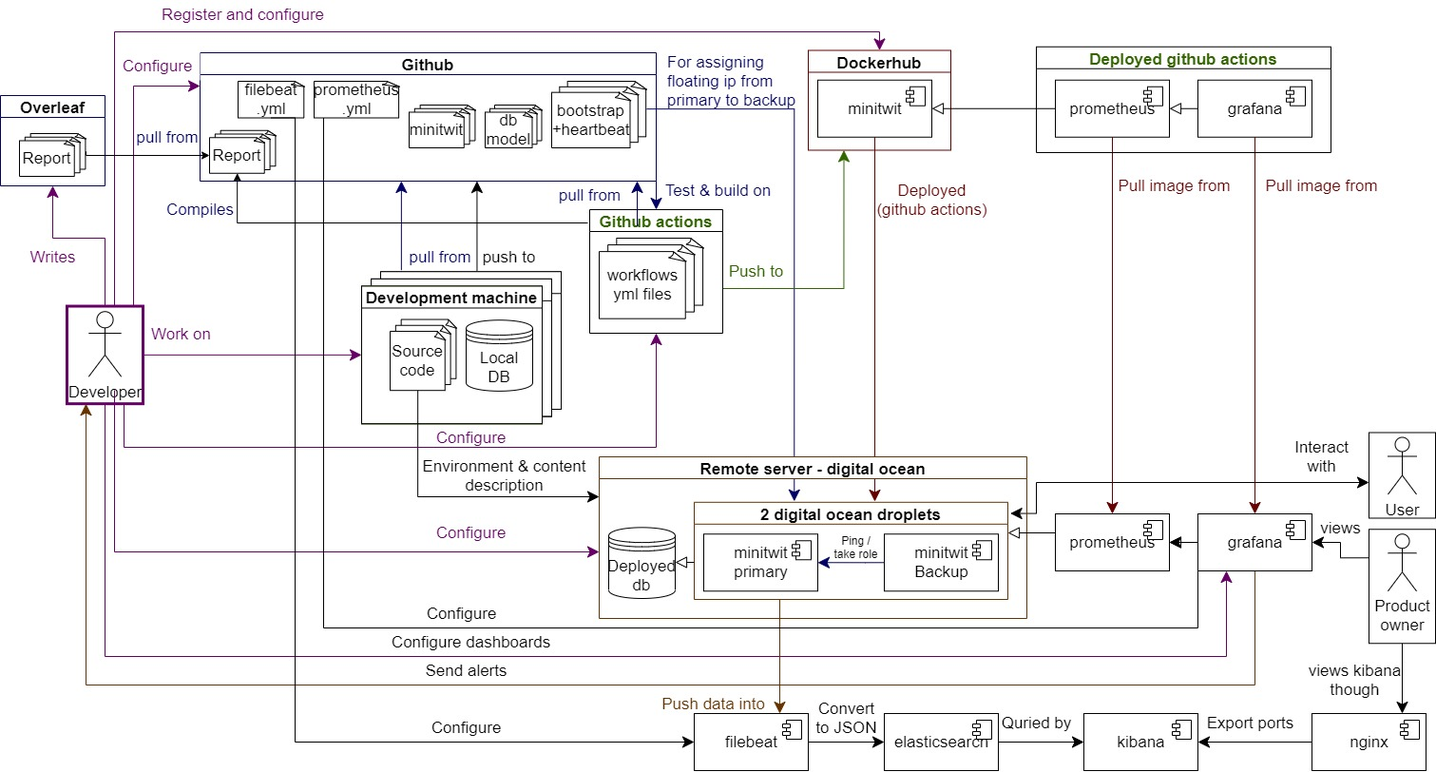
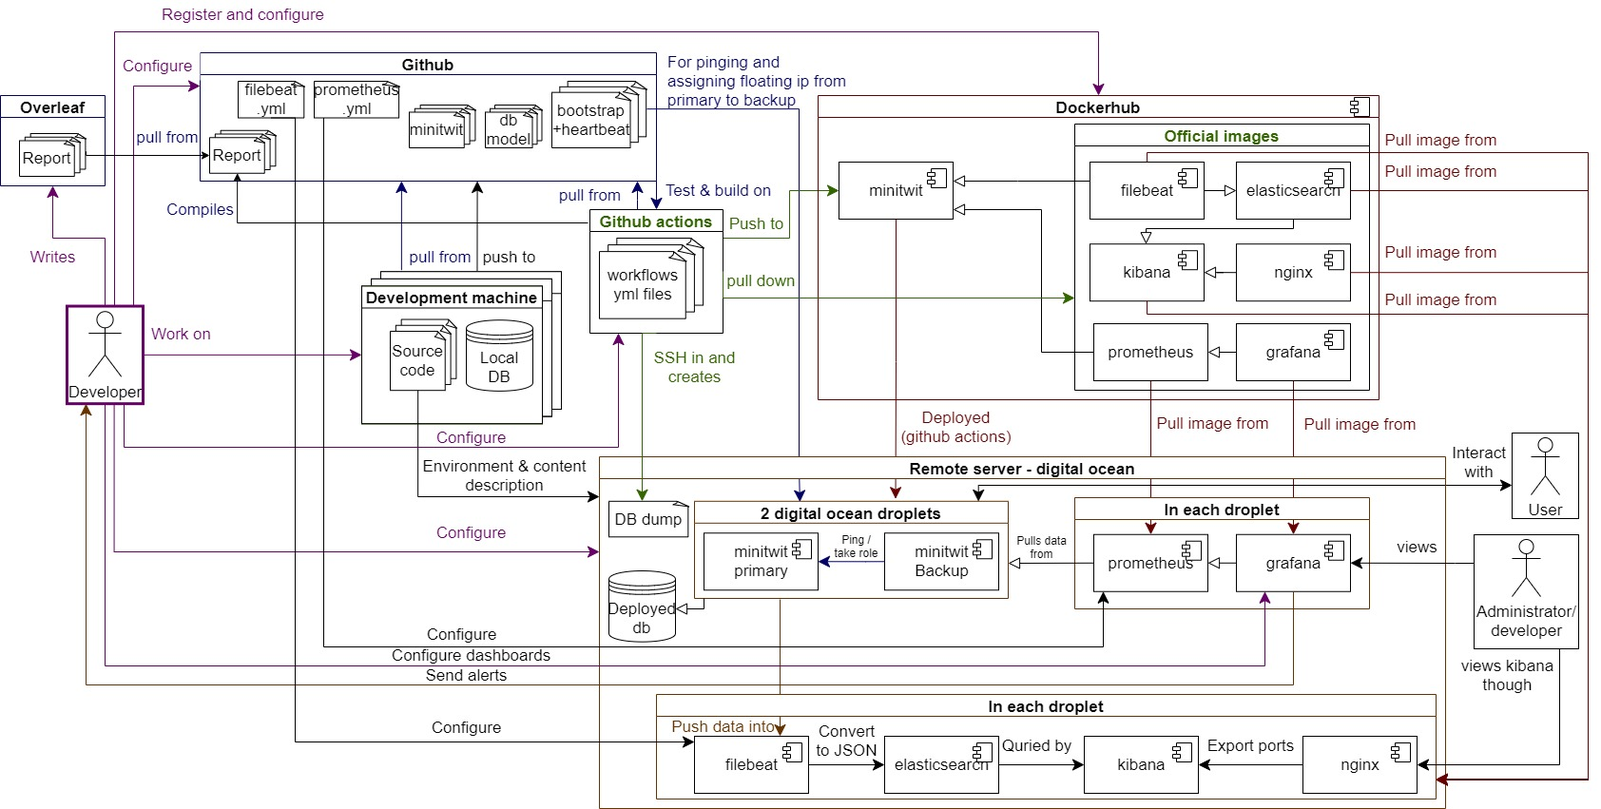
Update on Overleaf.

diff --git a/report/1-systems-perspective.tex b/report/1-systems-perspective.tex
@@ -13,91 +13,98 @@
 
 
 \begin{itemize}
-    \item \textbf{Main}: is the entrance point onto the program, and contains arguments to modify which database is used. Main also starts the maintenance and set max number of threads for the program.\\
+    \item \textbf{Main}: is the entrance point onto the program, and contains arguments to modify which database is used. Main also starts the maintenance and defines the max number of threads for the program.\\
     The class diagram can be seen in \hyperref[fig:classDiagramMain]{figure \ref{fig:classDiagramMain}}.
-    \item \textbf{Utilities}: contains helper methods like hashing, formatting dates and JSON and Request, response and session wrapper objects. \\
+    \begin{figure}[H]
+        \centering
+        \includegraphics[width=1.0\textwidth]{images/class_diagram_main.jpg}
+        \caption{Class diagram main, logical view}
+        \label{fig:classDiagramMain}
+    \end{figure}
+    
+    \item \textbf{Utilities}: contains helper methods like hashing, formatting dates and JSON, as well as housing Request, Response and Session wrapper objects. \\
     The class diagram can be seen in \hyperref[fig:classDiagramUtilities]{figure \ref{fig:classDiagramUtilities}}.
+    \begin{figure}[H]
+        \centering
+        \includegraphics[width=1.0\textwidth]{images/class_diagram_utilities.jpg}
+        \caption{Class diagram utilities, logical view}
+        \label{fig:classDiagramUtilities}
+    \end{figure}
+    
     \item \textbf{Error handling}: Contains objects to hold result of computations which could result in exceptions, allowing for better error handling and reducing amounts of try-catch statements. \\
     The class diagram can be seen in \hyperref[fig:classDiagramErrorhandling]{figure \ref{fig:classDiagramErrorhandling}}.
+    \begin{figure}[H]
+        \centering
+        \includegraphics[width=1.0\textwidth]{images/class_diagram_errorhandling.jpg}
+        \caption{Class diagram errorhandling, logical view}
+        \label{fig:classDiagramErrorhandling}
+    \end{figure}
+    
     \item \textbf{Controllers}: Handles the different endpoints which our website should provide, by mapping paths for post and get request to which code should handle the requests and responses.\\
     The class diagram can be seen in \hyperref[fig:classDiagramControllers]{figure \ref{fig:classDiagramControllers}}.
+    \begin{figure}[H]
+        \centering
+        \includegraphics[width=1.0\textwidth]{images/class_diagram_controllers.jpg}
+        \caption{Class diagram controllers, logical view}
+        \label{fig:classDiagramControllers}
+    \end{figure}
+    
     \item \textbf{View}: Contains code for changing what is presented in the website, by redirecting to new paths or by setting new HTML file/template to be used along with variables for it to know.\\
     The class diagram can be seen in \hyperref[fig:classDiagramView]{figure \ref{fig:classDiagramView}}.
+    \begin{figure}[H]
+        \centering
+        \includegraphics[width=1.0\textwidth]{images/class_diagram_view.jpg}
+        \caption{Class diagram view, logical view}
+        \label{fig:classDiagramView}
+    \end{figure}
+    
     \item \textbf{Services}: Includes the code for maintenance, which uses Prometheus library to store the values Prometheus should collect, and the log service, which prints in a manner easy to filer for in Kibana. Services also includes functions executing the requests and responses.\\
     The class diagram can be seen in \hyperref[fig:classDiagramServices]{figure \ref{fig:classDiagramServices}}.
-    \item \textbf{Repository}: Includes code for starting the database and for executing queries needed by the services. The ORM tool used is NORM.  \todo{argue for why}\\
-    The class diagram can be seen in \hyperref[fig:classDiagramRepository]{figure \ref{fig:classDiagramRepository}}.
+    \item \textbf{Repository}: Includes code for starting the database and for executing queries needed by the services. 
+    
+    The ORM tool used is \textit{NORM}, which is a lightweight ORM that does not require the complex markdown files that \textit{Hibernate}, \textit{JPA} etc. introduce. It is suitable for smaller projects with simple models and therefore for the Minitwit application. Another ORM tool, \textit{Hibernate}, was tried in order to see if it would be a better fit than NORM since it is more complex but it turned out that the tool did not deliver on its promises, meaning that it only introduced more unnecessary complexity without adding any benefits. It furthermore complicated database joins that are needed in the Minitwit application. It was therefore decided to stick with \textit{NORM}. The class diagram can be seen in \hyperref[fig:classDiagramRepository]{figure \ref{fig:classDiagramRepository}}.
+    \begin{figure}[H]
+        \centering
+        \includegraphics[width=1.0\textwidth]{images/class_diagram_services.jpg}
+        \caption{Class diagram services, logical view}
+        \label{fig:classDiagramServices}
+    \end{figure}
+    
     \item \textbf{Model}: Model contains the database relations with one object per entity. The objects in the folder matches the entities in the database as they are the template NORM uses to create it.\\
     The class diagram can be seen in \hyperref[fig:classDiagramModel]{figure \ref{fig:classDiagramModel}}.
+    \begin{figure}[H]
+        \centering
+        \includegraphics[width=1.0\textwidth]{images/class_diagram_repository.jpg}
+        \caption{Class diagram repository, logical view}
+        \label{fig:classDiagramRepository}
+    \end{figure}
+
     \item \textbf{Benchmark}: This is not in deployment and contains code to be run locally only. The packet component relates to measuring speed of different operations in the repository and was used to argue for speedups related to any extension to a database of same size as the one in deployment, as when indexes was added.\\
     The class diagram can be seen in \hyperref[fig:classDiagramModel]{figure \ref{fig:classDiagramModel}}.
+    \begin{figure}[H]
+        \centering
+        \includegraphics[width=1.0\textwidth]{images/class_diagram_model.jpg}
+        \caption{Class diagram model, logical view}
+        \label{fig:classDiagramModel}
+    \end{figure}
 \end{itemize}
 
 
-\begin{figure}[H]
-    \centering
-    \includegraphics[width=1.0\textwidth]{images/class_diagram_main.jpg}
-    \caption{Class diagram main, logical view}
-    \label{fig:classDiagramMain}
-\end{figure}
-
-\begin{figure}[H]
-    \centering
-    \includegraphics[width=1.0\textwidth]{images/class_diagram_utilities.jpg}
-    \caption{Class diagram utilities, logical view}
-    \label{fig:classDiagramUtilities}
-\end{figure}
-\begin{figure}[H]
-    \centering
-    \includegraphics[width=1.0\textwidth]{images/class_diagram_errorhandling.jpg}
-    \caption{Class diagram errorhandling, logical view}
-    \label{fig:classDiagramErrorhandling}
-\end{figure}
-\begin{figure}[H]
-    \centering
-    \includegraphics[width=1.0\textwidth]{images/class_diagram_controllers.jpg}
-    \caption{Class diagram controllers, logical view}
-    \label{fig:classDiagramControllers}
-\end{figure}
-
-\begin{figure}[H]
-    \centering
-    \includegraphics[width=1.0\textwidth]{images/class_diagram_view.jpg}
-    \caption{Class diagram view, logical view}
-    \label{fig:classDiagramView}
-\end{figure}
-
-\begin{figure}[H]
-    \centering
-    \includegraphics[width=1.0\textwidth]{images/class_diagram_services.jpg}
-    \caption{Class diagram services, logical view}
-    \label{fig:classDiagramServices}
-\end{figure}
-
-\begin{figure}[H]
-    \centering
-    \includegraphics[width=1.0\textwidth]{images/class_diagram_repository.jpg}
-    \caption{Class diagram repository, logical view}
-    \label{fig:classDiagramRepository}
-\end{figure}
-\begin{figure}[H]
-    \centering
-    \includegraphics[width=1.0\textwidth]{images/class_diagram_model.jpg}
-    \caption{Class diagram model, logical view}
-    \label{fig:classDiagramModel}
-\end{figure}
-
 \subsection{Architecture} %Jonas
-\hyperref[fig:componentDiagram]{Figure \ref{fig:componentDiagram}} shows the architecture of the entire ITU-minitwit system. Code is stored in github, which developers pull and push to during development. As mentioned main contains code for which database to use, and when running just the code locally it should use a local database called minitwit running on port 3306 localhost with password and username "root". When running locally with docker compose the mysql services should be stopped so a container for the database can be created. 
+\hyperref[fig:componentDiagram]{Figure \ref{fig:componentDiagram}} shows the architecture of the entire ITU-minitwit system.\\
+Code is stored in Github, which developers pull and push to during development. As mentioned main contains code for which database to use, and when running just the code locally it should use a local database called minitwit running on port 3306 localhost with password and username "root". When running locally with docker compose the MySQL services should be stopped so a container for the database can be created.\\
+Github actions test the files pushes using sonar cloud. Github actions also deploy to a docker image and pull down official Prometheus, Grafana, Filebeat, ElasticSearch, Kibana and Nginx images.\\
+The images are deployed on a digital ocean server containing one database and 2 digital ocean droplets. Each droplet contain a minitwit application and an official image. One image's floating point IP is in production and the other use heartbeat test whether primary is still up or whether it should become the new primary.
+\todo{Heartbeat}\\
+The Prometheus and Grafana images are for viewing maintenance and other four are for logging purposes.
 
 
-\todo{Describe report pulling and creation}
 
 
 \begin{figure}[H]
     \centering
     \includegraphics[width=1.0\textwidth]{images/Diagrams-Process_view_communication_diagram.jpg}
-    \caption{communication diagram, process view}
+    \caption{Communication diagram, process view}
     \label{fig:componentDiagram}
 \end{figure}
 
@@ -118,10 +125,19 @@
     \item \textbf{prometheus}: Prometheus JVM Client for introducing instrumenting such as gauges, counters and other metrics.
     \item \textbf{org.json}: Toolkit for JSON.
 \end{itemize}
+\subsubsection{Plugins}
+\begin{itemize}
+    \item \textbf{Maven}: Build automation tool used to manage our Java project and its dependencies.
+    \item \textbf{PMD}: code analyzer, used to find common programming flaws like unused variables, unnecessary object creation etc. 
+    \item \textbf{Forbidden API Checker}: Static code analysis that parses java byte code to find invocations of dangerous and deprecated method/class/fields signatures. 
+    \item \textbf{SonarCloud}: Bug, Vulnerability and Code Smell detection with issue contextualization and remediation guidance. Used in our CI for Continuous code inspection.
+\end{itemize}
+\footnote{\url{https://github.com/DevOps2021-gb/devops2021/wiki/Static-Analysis-Tools}}
+
 \todo{Skal plugins nævnes?(maven, PMD, forbiddenAPIs) \textcolor{yellow}{Maven kunne måske være relevant i hvert fald}}
 
 
-We used \url{www.licensediscovery.io} to analyze our Maven dependency licenses. As seen in figure \ref{fig:licenceDep} the strictest license that the majority of dependencies is ruled by is the Apache Software Licence Version 2. This is the license that we therefore went with.\footnote{\url{https://github.com/DevOps2021-gb/devops2021/blob/main/LICENSE.md}} \todo{Er det begrundelse nok?}
+We used \url{www.licensediscovery.io} to analyze our Maven dependency licenses. As seen in figure \ref{fig:licenceDep} the strictest license that the majority of dependencies is ruled by is the Apache Software License Version 2. This is the license that we therefore went with.\footnote{\url{https://github.com/DevOps2021-gb/devops2021/blob/main/LICENSE.md}} \todo{Er det begrundelse nok?}
 \begin{figure}[!htb]
     \centering
     \includegraphics[scale=0.2]{images/LicenceDependencies.png}
@@ -133,7 +149,7 @@ We used \url{www.licensediscovery.io} to analyze our Maven dependency licenses. 
 \subsection{Important interactions of subsystem}
 
 \subsection{Current state of system}
-The system is currently has a single known bug regarding the scaling of the system, see section \ref{issues-operation}. The tool used for static analysis, \texttt{sonarcloud}, reports the best rating, \textit{A}, on all measures, with 
+The system is currently has a single known bug regarding the scaling of the system, see section \ref{issues-operation}. The tool used for static analysis, \texttt{Sonarcloud}, reports the best rating, \textit{A}, on all measures, with 
 
 \begin{itemize}
     \item 0 bugs

diff --git a/report/2-process-perspective.tex b/report/2-process-perspective.tex
@@ -7,7 +7,16 @@ The developer team stay in contact through a Microsoft Teams team, where we have
 
 \subsection{CI/CD chain} %jesper
 For CI, we initially attempted to use TravisCI, as everyone in the group had encountered it. We ended up abandoning TravisCI due to an overwhelming number of issues with files and folders not being added properly, in addition to not being able to make proper use of necessary secrets. \\ \indent We instead settled for using GitHub Actions, which had all the features we wanted (triggers, stages, customizable images and non-local storage of secrets).
-\todo{describe process}
+
+\begin{itemize}
+    \item \textbf{Java CI with Maven}: This is invoked on all pushes to the github repository. It builds the maven project using $mvn package$ and runs all tests, including integration tests on a remote test database. This workflow utilizes caching to ensure that maven dependencies aren't fetched on consecutive runs. 
+    \item \textbf{Staging deployment}: This is invoked on all pushes to the main branch. This workflow logs into DockerHub, builds and pushes the minitwit docker image with database secrets. Afterwards it SSH's to the primary minitwit server and fetches the minitwit config files, including the docker-compose file. Immediately after all containers are torn down and rebuild using the newly pushed minitwit image from DockerHub. Finally, a release is created with new commits linked and the backup server is redeployed similarly. In the downtime of the primary server the backup server obtains the floating IP and vice versa. 
+    \item \textbf{Backup DB}: Once a day SSH's into the primary server and creates a database dump with time and date in the name. Created to minimize potential data loss. 
+    \item \textbf{Build LaTeX document}: Compiles the LaTeX files and builds the pdf document when changes are pushed to the report directory in the repository. The LaTeX files are manually fetched from a remote overleaf repository, as Overleaf facilitates the groups collaborative writing. 
+    \item \textbf{SonarCloud}: Official SonarCloud github action that builds and analyzes the java project using $mvn verify$. 
+\end{itemize}
+\todo{describe secret handling}
+
 
 \subsection{Organization of repository}
 The code is organized using a mono repository setup, having all code and scripts necessary to run the application gathered in a single repository. The team deemed this sufficient as everything located in the repository (apart from local dockerfiles and simulator) is involved in the deployment process and the code-base is small and simple enough that having multiple repositories would only increase complexity. 
@@ -18,10 +27,42 @@ The code is organized using a mono repository setup, having all code and scripts
 The group decided on using the master branch for the latest release meaning that the code found in production, could also be found on the master branch. The develop branch facilitated the main development of the project which should always contain a working build. From develop each group member could create feature branches (\texttt{feature/logging} for example) and then merge back into develop once tested and approved. Develop could be subject to hotfixes, which would then be merged into master when issues arose. The full process can be seen in \underline{\href{https://github.com/DevOps2021-gb/devops2021/blob/main/CONTRIBUTE.md}{CONTRIBUTE.md}}. The group used GitHub issues to track development progress labeling them as needed with tags such as bug, documentation, feature, enhancement and so on. The status of each issue and the issues to focus on each week was tracked using GitHub's kanban board, having columns 'Todo', 'This sprint', 'In progress' and 'Done'.
 
 \subsection{Monitoring} %Jonas
+Monitoring is set up using \textit{Prometheus} and \textit{Grafana}, where \textit{Prometheus} is used to subtract data from the system, at the data is displayed on dashboards in \textit{Grafana}.\\
+The newest data points displayed collected by prometheus are collected and stored using \texttt{MaintenanceService.java}. Each data type is stored in prometheus library's Gauge or Counter objects, which is registered with a unique name and help description. Data gathered is the current cpu load, data base information and response-time of each endpoint. The data is collected with an interval of 30s by it calling the "/metrics" endpoint. The configuration of prometheus can be seen in file \texttt{prometheus.yml} \footnote{\url{https://github.com/DevOps2021-gb/devops2021/blob/main/prometheus.yml}}.
+
+On \textit{Grafana} three dashboards were created:
+\begin{itemize}
+    \item \textbf{Minitwit DB info} shows information about the data stored in the database, e.g. the current number of users registered for the application \footnote{\url{http://144.126.244.138:3000/dashboard/db/minitwit-db-info?orgId=1}}.
+    \begin{figure}[H]
+        \centering
+        \includegraphics[width=1.0\textwidth]{images/Grafana_minitwit_db.JPG}
+        \caption{Grafana dashboard minitwit db}
+        \label{fig:grafana_db}
+    \end{figure}
+    
+    \item \textbf{Minitwit request}\footnote{\url{http://144.126.244.138:3000/dashboard/db/minitwit-requests?orgId=1}} shows response times for requests to the system.
+    \begin{figure}[H]
+        \centering
+        \includegraphics[width=1.0\textwidth]{images/Grafana_minitwit_requests.JPG}
+        \caption{Grafana dashboard minitwit requests}
+        \label{fig:grafana_requests}
+    \end{figure}
+    
+    \item \textbf{Prometheus Stats}\footnote{\url{http://144.126.244.138:3000/dashboard/db/prometheus-stats?orgId=1}} shows the uptime of the system. The time is reset when the system is redeployed or if it goes down.
+    \begin{figure}[H]
+        \centering
+        \includegraphics[width=1.0\textwidth]{images/Grafana_prometheous_stats.JPG}
+        \caption{Grafana dashboard Prometheus Stats}
+        \label{fig:grafana_prometheus}
+    \end{figure}
+\end{itemize}
+The graphs in the dashboards show min, max and average and those with a heart in the title contains alerts that every 60 seconds check if latest value is below certain values which indicates that a critical error has occurred. When/if such an alert is triggered Grafana should be setup to email the members of the team. 
+
+
 
 \subsection{Logging}
 Logging is set up as an EFK stack. Initially only exceptions were logged but during the logging exercise we found only one of the three introduced bugs could by detected by our logging system, telling us our logging was insufficient. Afterwards more detailed logging was introduced now also logging requests and their payloads with the exception of passwords which was removed. This change made all three kinds of bug show up in the log. The description of the experiment can be found in the wiki entry \underline{\href{https://github.com/DevOps2021-gb/devops2021/wiki/Catch-a-Bug-By-Looking-at-the-Logs}{Catch a Bug By Looking at the Logs}}. 
-\todo{How do we aggregate logs?}
+\todo{log volumes, traces, exceptions}
 
 
 \subsection{Security assessment} %Jonas %self and from group a/L
@@ -34,13 +75,11 @@ For the rick assessment three assets to protect was identified: the web applicat
     \item Database: SQL injection through web application/API
 \end{itemize}
 
-A risk analysis table was constructed and 11 scenarios were identified. \todo{Gjorde vi noget ved nogle af tingene? Hvis nej, hvorfor så ikke? \textcolor{yellow}{Vi gjorde ikke noget}}
-
-The full details of the risks assesment can be found under \underline{\href{https://github.com/DevOps2021-gb/devops2021/wiki/Risk-assesment}{Risk Assessment}}.
+A risk analysis table was constructed and 11 scenarios were identified. For most of the scenarios actions had already been taken to prevent or mitigate the risks. For a few other scenarios possible actions were identified but not taken as they were not deemed necessary. The full details of the risks assesment can be found under \underline{\href{https://github.com/DevOps2021-gb/devops2021/wiki/Risk-assesment}{Risk Assessment}}.
 
 For the penetration testing three tools were used: \textit{nmap}, \textit{metasploit} and \textit{SQL map}.In each case no vulnerabilities were found. In addition to using \textit{SQL map} cross-site scripting was also tested manually in multiple browsers by trying to use script-tags in the message input field on the website. In all tested browsers the script tag was not rendered. Lastly, it was checked that traces of the tools run showed up in the logging. The full details of the penetration test can be seen in \underline{\href{https://github.com/DevOps2021-gb/devops2021/wiki/Penetration-testing}{Penetration testing}}. 
 
 Another group was supposed to perform a white hat attack on the system. Nothing was heard from the group and it must be assumed that they found nothing to report.
 
 \subsection{Scaling and load balancing}\label{subsection:scaling} %Nikolaj/Frederik
-The group had difficulties using linux' heartbeat command as it could not listen on a specific port. Two shell scripts were therefore written instead. The first script continuously running on the secondary droplet checking the availability of the primary droplet, reassigning the floating-ip to itself should the application on the primary droplet go down. The second script would run on the primary droplet to reassign the floating-ip to itself when it restarted \footnote{\url{https://github.com/DevOps2021-gb/devops2021/tree/main/heartbeat}}
+The group first implemented the traditional Heartbeat with Floating IPs on DigitalOcean \footnote{\url{https://www.digitalocean.com/community/tutorials/how-to-create-a-high-availability-setup-with-heartbeat-and-floating-ips-on-ubuntu-16-04}}. Unfortunately this would only ensure that floating IP were switched to the backup and back when the entire machine would go down. We did not find a configuration of Heartbeat that would allow us to listen on a specific port, and switch floating IP's when the minitwit service was down. We therefore decided to write two shell script to gain the sought after functionality. The first script continuously running on the secondary droplet checking the availability of the primary droplet, reassigning the floating-ip to itself should the application on the primary droplet go down. The second script would run on the primary droplet to reassign the floating-ip to itself when it restarted \footnote{\url{https://github.com/DevOps2021-gb/devops2021/tree/main/heartbeat}}

diff --git a/report/3-lessons-learned.tex b/report/3-lessons-learned.tex
@@ -1,5 +1,4 @@
 \section{Lessons learned perspective} \label{section:Lessons learned perspective}
-\todo{Link back to respective commit messages, issues, tickets, etc. to illustrate these.}
 \subsection{Issues: evolution and refactoring}
 Initially, the inherited code was translated to a basic Java application using the Java Spark framework\footnote{\url{https://github.com/DevOps2021-gb/devops2021/issues/152}}. At the time, this code was very bare-bones with all logic and endpoints located in a single file. As time went on, the team refactored the application to make use of a more well structured system architecture (controller-, service-, persistance-layer)\footnote{\url{https://github.com/DevOps2021-gb/devops2021/tree/ae6cd48a06fde2a5c403056b33895b7589cb039d}} eventually adding dependency injection and mock testing\footnote{\url{https://github.com/DevOps2021-gb/devops2021/commit/07914442a09e204f0be2687fe8e5b9bd07799ee4}} to the application. 
 During development one of the endpoints response code was changed which led to a massive increase in errors the simulator reported, this could have been avoided if a fraction of the provided \texttt{minitwit\_simulator.py} file had been a part of the test pipeline.
@@ -11,6 +10,7 @@ The self-made heartbeat protocol had some issues related to Spark. An issue\foot
 
 Early on in the project our MySQL database was deployed together with our minitwit application using Vagrant. Due to SSH key mismanagement, we lost access to our vagrant deployed DigitalOcean minitwit server containing simulator generated data. Luckily we were able to reset the root user through digital ocean's web terminal functionality. Through this terminal we could add SSH public keys to the \textit{authorized\_keys} file. Finally, we could then SSH into the server and get a database dump. This database dump was based on an outdated model with no ORM, so we then had to alter the tables before transferring it to the new remote database server. Only a minor amount of data was lost during the data transfer. To ensure minor data loss in the future we created a backup Github Action that made a database backup once a day. In addition, SSH keys for the server were backed up in a keystore.
 On the 18th of March our webserver crashed due to SSL exceptions. After looking through Docker logs, we narrowed it down to an incompatibility between java-mysql-connector 8.0.15 and Java 11. The solution to this was to update java-mysql-connector 8.0.15 to 8.0.23 \footnote{\url{https://github.com/DevOps2021-gb/devops2021/issues/94}}.
+\todo{no automatic versioning}
 
 \subsection{Issues: maintenance}
 The group never figured out how make SonarCloud read the test coverage\footnote{\url{https://github.com/DevOps2021-gb/devops2021/issues/140}}, eventually scrapping the idea after spending much time trying to make it work.

diff --git a/report/main.tex b/report/main.tex
@@ -56,8 +56,8 @@
 \definecolor{pgrey}{rgb}{0.46,0.45,0.48}
 
 \usepackage{listings}
-
-\title{Exam: DevOps, Software Evolution and Software Maintenance, MSc CS (Spring 2021)\\
+\usepackage{xurl}
+\title{Exam Report: \\DevOps, Software Evolution and Software Maintenance, MSc CS (Spring 2021)\\
 Course code: KSDSESM1KU}
 \author{
 Frederik Henrik Martini, frem@itu.dk\\
